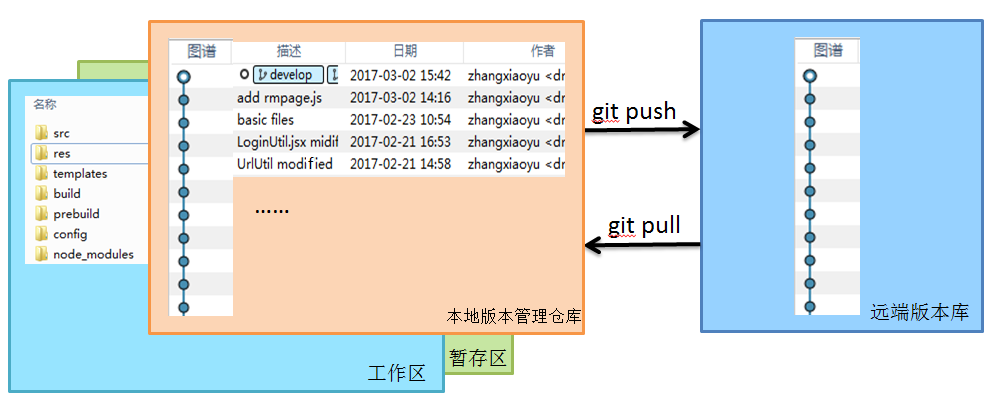
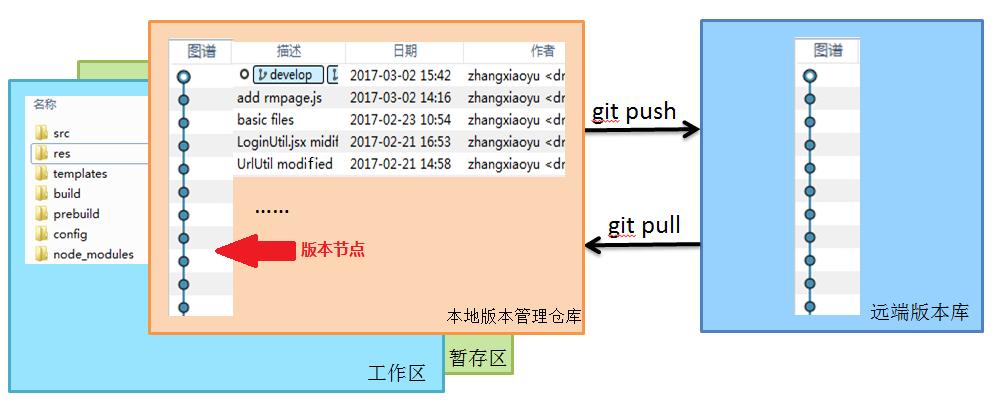
git入门说明 完成

Changed region(s): [[0.2179, 0.563, 0.3735, 0.6519]]

diff --git a/7_git/git入门说明.md b/7_git/git入门说明.md
@@ -7,7 +7,7 @@
 	git init	
 	```
 	此时当前文件夹就是一个新的仓库。  
-	该目录下会多出一个.git文件夹，里面的文件是用来跟踪管理版本库的，一般情况下不建议手动修改。  
+	该目录下会多出一个被隐藏的.git文件夹，里面的文件是用来跟踪管理版本库的，一般情况下不建议手动修改。  
 
 - 从远端仓库检出
 	
@@ -17,6 +17,7 @@
 	该命令执行成功后，远端仓库会被检出到本地。
 
 ### 2. 本地仓库  
+本地仓库我们可以理解它有三个区域：工作区，暂存区，版本库。后两者不可见，存在于被隐藏的文件夹.git中。  
 ![git工作流](img/git_local.png)
 - 工作区  
 	可见文件的区域，我们对文件的操作都是针对工作区的。  
@@ -24,7 +25,7 @@
 	当对工作区的文件进行变更，这时候，这些变更没有被提交（暂存区或版本库），用`git status`命令可以看到以下状态，工作区是脏的。  
 	![工作区](img/workspace.png)  
 
-- 暂存区
+- 暂存区  
 	顾名思义，将变更提交的暂存区，提交到版本库的过渡。
 
 	```
@@ -34,7 +35,7 @@
 	此时再用`git status`命令可以看到以下状态。  
 	![暂存区](img/stage.png)  
 
-- 版本库
+- 版本库  
 	对已经提交的变更进行版本管理。  
 	![版本库](img/banben.png)   
 	每个版本节点中存有当前提交的一些文件信息，如果文件后续变更后，还需要之前的文件信息，则可以从版本库中检出之前的文件信息。  
@@ -46,11 +47,11 @@
 	同样的，用`git status`查看状态，工作区是干净的，没有需要提交的内容。
 	![版本库](img/commit.png)
  
-- HEAD
+- HEAD  
 	到这里我们可以看到，版本库里面有许多的版本节点，那么我们的工作区到底显示的是哪个版本的文件，是在对哪个版本下的文件进行变更呢？  
 	HEAD就起到这样一个作用，类似于当前活跃版本节点的指针：HEAD指向的位置，就是我们当前工作区所在的版本节点，包括后面会提到的分支切换，其实也是HEAD指针指向的版本节点的切换。  
-	比如，我们用reset指令将工作区的内容切换到之前的版本（描述为'UrlUtil modified'）：  
-	![HEAD指针](img/HEAD.png)
+	比如，我们用reset指令将工作区的内容切换到之前的版本（描述为'UrlUtil modified'）：    
+	![HEAD指针](img/HEAD.png)  
 	可以看到提示**HEAD is now at c0f2e25 UrlUtil modified**。
 
 ### 3. 远端仓库
@@ -59,8 +60,8 @@
 
 对远端仓库我们有两个基本的操作，这两个操作都是在本地版本库和远端版本库间的操作。
 
-- 推送本地版本至远端
-	![比远端超前一个版本](img/ahead.png)
+- 推送本地版本至远端  
+	![比远端超前一个版本](img/ahead.png)  
 	可见上图中，本地版本库有一个新的提交版本没有推送到远端，这时候远端没有我们本地最新版本的信息，需要执行以下命令将本地的最新版本信息推送到远端。
 
 	```
@@ -68,7 +69,7 @@
 	```
 	执行之后，就把本地的最新版本推送到远端了。
 
-- 将远端版本拉到本地仓库
+- 将远端版本拉到本地仓库  
 	类似的，如果别人对把他们的变更提交到远端，这时候我们本地版本库就比远端落后几个版本，我们可以通过`pull`命令将远端的版本拉到本地。
 
 	```
@@ -136,14 +137,14 @@
 
 ### Git Flow分支管理模型  
 
-- **master**
+- **master**  
 	随时可发布的代码，这里的代码都是测试完成的，已上线的；在master打tag，所有上线了的版本的tag都打在这里；
-- **develop**
+- **develop**  
 	永远是功能最新最全的分支，所有开发完成的功能都合并到该分支上；这个分支上的代码不一定都是测试完成的，大部分都是待测试的；
-- hotfix
+- hotfix  
 	修复线上代码的 bug，它派生于master分支，修改完成并且测试完成后，合并到master和develop上；
-- feature
+- feature  
 	某个功能点正在开发阶段的代码，它派生于develop分支，开发完成后，合并到develop上等待测试；
-- release
-	要上线的功能，它派生于develop分支，测试完成可以上线后，分别合并到master和develop上；派生出某个release后，develop分支可以接着开发别的功能而不影响到上个release；
+- release  
+	要上线的功能，它派生于develop分支，测试完成可以上线后，分别合并到master和develop上；派生出某个release后，develop分支可以接着开发别的功能而不影响到上个release；  
 ![Git Flow分支管理模型](img/branchTree.png)
